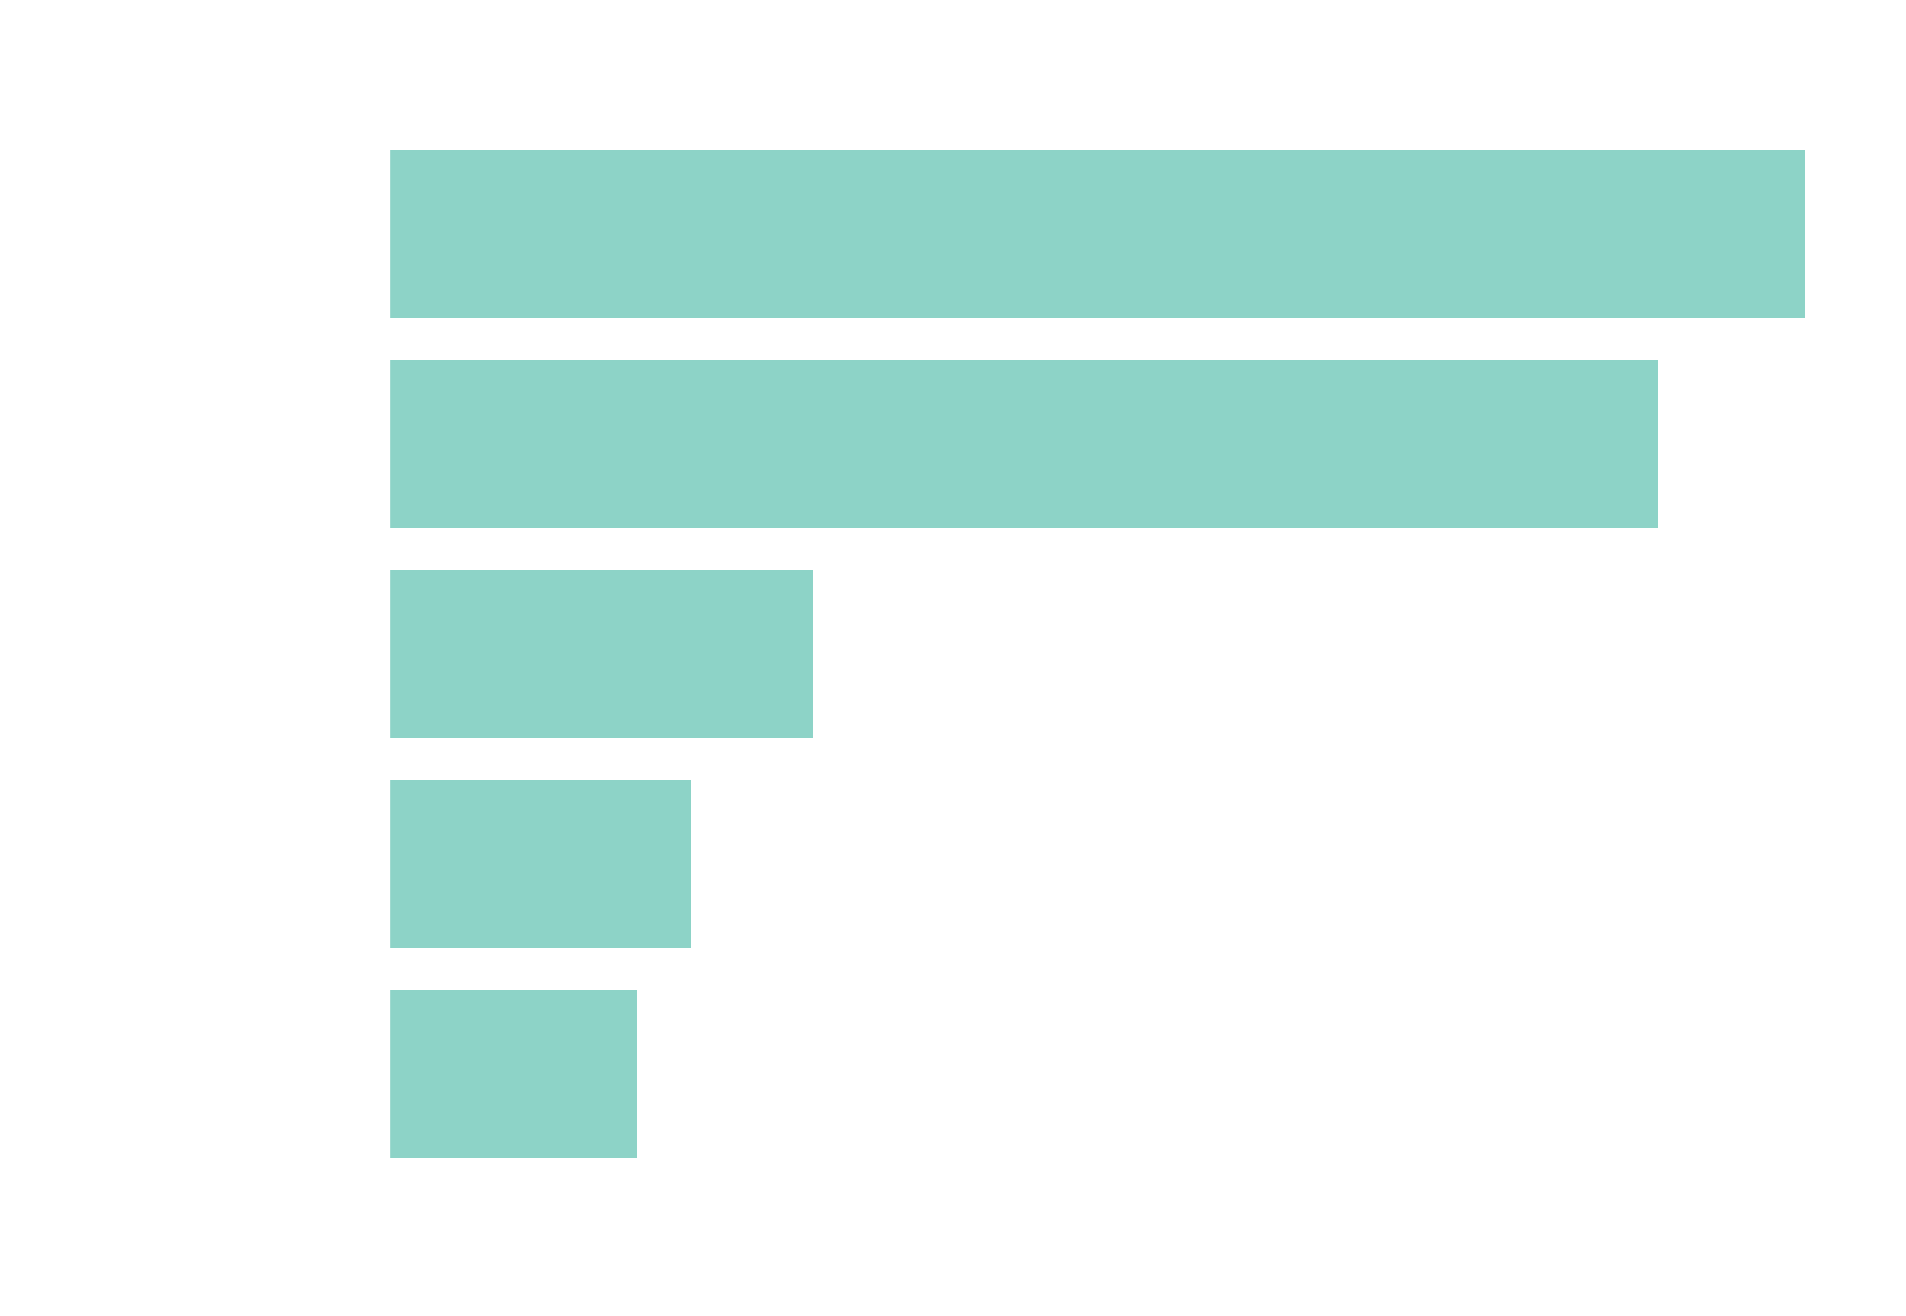
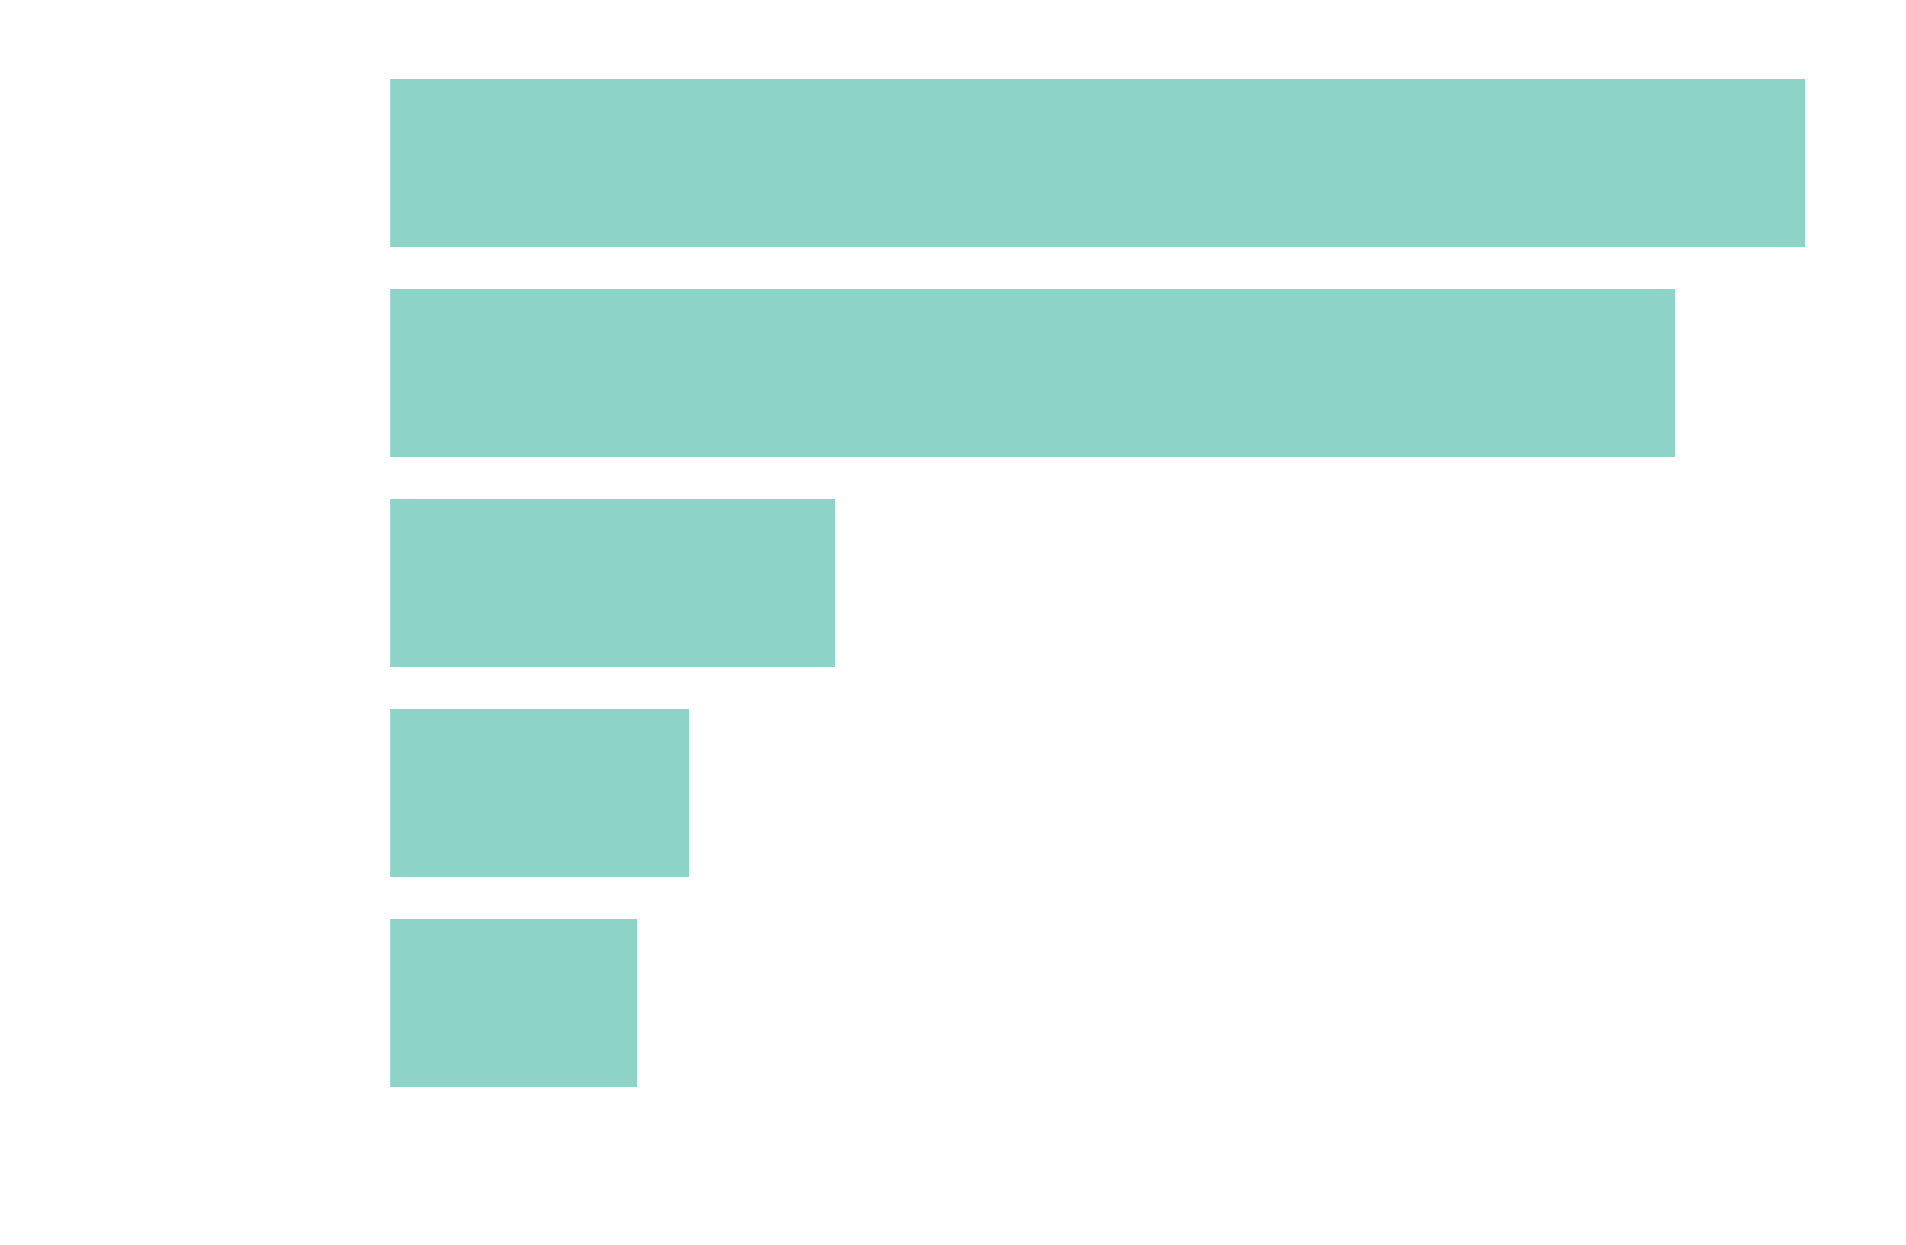
update charts, add map HTML

diff --git a/layouts/_default/stats.html b/layouts/_default/stats.html
@@ -11,7 +11,19 @@
     {{- if not (.Param "disableAnchoredHeadings") }} {{- partial
     "anchored_headings.html" .Content -}} {{- else }}{{ .Content }}{{ end }}
     <section class="stats">
+      <h2>Visitors by Country</h2>
       <p>
+        It's always amazing to see people from around the world reading my blog. Most visitors come from
+        {{ range first 3 .Site.Data.stats.stats.top_countries }} {{ . }}, {{ end }} and {{ range last 1 .Site.Data.stats.stats.top_countries }} {{ . }}. {{ end }}
+      </p>
+      <figure class="align-center"><a href="/images/stats/visitors-by-country.png" target="_blank">
+        <img loading="lazy" src="/images/stats/visitors-by-country.png#center" alt="Chart showing the source of visitors over last one month."> </a><figcaption>
+        Stats from the last 30 days<p>Last updated at {{.Site.Data.stats.stats.runtime}}</p>
+        </figcaption>
+        </figure>
+        <p>Shoutout to <a href="https://www.linkedin.com/in/christy-m-thomas/">Christy</a>, an actual GIS Engineer, who helped me create the chart above.</p>
+        <h2>Visitors per Day</h2>
+        <p>
         {{.Site.Data.stats.stats.most_visitors_visitors}} people visited the
         blog on {{.Site.Data.stats.stats.most_visitors_date}}. This is the
         highest number of daily visitors in the past month.
@@ -27,6 +39,7 @@
         Stats from the last 30 days<p>Last updated at {{.Site.Data.stats.stats.runtime}}</p>
         </figcaption>
         </figure>
+    <h2>Visitors by Source</h2>
     <p>
         Most people visited the site from the source: {{ index (.Site.Data.stats.stats.top_sources) 0 }}.
     </p>

diff --git a/.github/main.py b/.github/main.py
@@ -12,6 +12,8 @@ import pytz
 from datetime import datetime
 from dotenv import load_dotenv
 
+from PIL import Image
+
 load_dotenv()
 
 site = os.getenv('SITE')
@@ -19,11 +21,18 @@ period = os.getenv('PERIOD')
 token = os.getenv('TOKEN')
 runtime = os.getenv('RUN')
 
+def get_suffix(date):
+    day = date.day
+    if 11 <= day <= 13:
+        suffix = 'th'
+    else:
+        suffix = {1: 'st', 2: 'nd', 3: 'rd'}.get(day % 10, 'th')
+    return suffix
+
 input_tz = pytz.timezone('UTC')
 output_tz = pytz.timezone('Asia/Kolkata')
 
 input_tz_format = '%Y-%m-%dT%H:%M:%S'
-output_tz_format = '%-I:%M %p, %-d %B %Y (%z)'
 
 if runtime == "":
     runtime = datetime.now().strftime(input_tz_format)
@@ -33,16 +42,10 @@ input_time = datetime.strptime(runtime, input_tz_format)
 input_time = input_tz.localize(input_time)
 
 output_time = input_time.astimezone(output_tz)
-output_time_str = output_time.strftime(output_tz_format)
 
-def format_date(date_str):
-    date = datetime.strptime(date_str, '%Y-%m-%d')
-    day = date.day
-    if 11 <= day <= 13:
-        suffix = 'th'
-    else:
-        suffix = {1: 'st', 2: 'nd', 3: 'rd'}.get(day % 10, 'th')
-    return date.strftime(f'%d{suffix} %B %Y')
+output_tz_format = f'%-I:%M %p, %-d{get_suffix(output_time)} %B %Y (%z)'
+
+output_time_str = output_time.strftime(output_tz_format)
 
 url = 'https://plausible.io/api/v1/stats/timeseries'
 
@@ -101,7 +104,7 @@ ax.tick_params(axis='x', labelrotation=45)
 ax.set_xlim(dates[0], dates[-1])
 ax.xaxis.set_major_locator(plt.MaxNLocator(5))
 
-ax.set_title('Vistors over the Last Month')
+# ax.set_title('Vistors over the Last Month')
 
 fig.savefig('./static/images/stats/monthly-visitors.png',
             dpi=300, bbox_inches='tight', transparent=True)
@@ -133,7 +136,7 @@ if 'Direct / None' in top_sources:
 fig, ax = plt.subplots()
 ax.barh(sources, visitors)
 
-ax.set_title('Top Sources')
+# ax.set_title('Top Sources')
 
 fig.savefig('./static/images/stats/monthly-sources.png',
             dpi=300, bbox_inches='tight', transparent=True)
@@ -159,22 +162,28 @@ merged_data = world.merge(df, left_on='ISO_A2', right_on='country')
 top_countries = list(merged_data.sort_values(by='visitors', ascending=False).iloc[:4].ADMIN.values)
 
 colors_list = ['#c6e9e3', '#8dd3c7', '#45b29f', '#317f72']
-positions = [0.0, 0.6, 0.8, 1.0]
+positions = [0.0, 0.05, 0.4, 1.0]
 cmap = colors.LinearSegmentedColormap.from_list(
     'custom_cmap', list(zip(positions, colors_list)))
 
-fig, ax = plt.subplots(1, 1, figsize=(18, 18))
+fig, ax = plt.subplots()
 
 world.plot(ax=ax, facecolor="none", edgecolor='#ffffff', lw=.5)
 merged_data.plot(ax=ax, column='visitors', cmap=cmap)
 
-ax.set_title('Visitors by Country')
+# ax.set_title('Visitors by Country')
 ax.set_axis_off()
 
-plt.savefig('./static/images/stats/visitors-by-country.png', bbox_inches='tight',dpi=300)
+plt.savefig('./static/images/stats/visitors-by-country.png', dpi=300, bbox_inches='tight', transparent=True)
+
+im = Image.open('./static/images/stats/visitors-by-country.png')
+im = im.crop((82, 41, 1467, 624))
+im.save('./static/images/stats/visitors-by-country.png')
+
+most_visitors_date = datetime.strptime(most_visitors_date, '%Y-%m-%d')
 
 data_yaml = {
-    'most_visitors_date': format_date(most_visitors_date),
+    'most_visitors_date': most_visitors_date.strftime(f'%-d{get_suffix(most_visitors_date)} %B %Y'),
     'most_visitors_visitors': most_visitors_visitors,
     'top_page_link': top_page_link,
     'top_page_visitors': top_page_visitors,

diff --git a/content/stats.md b/content/stats.md
@@ -14,5 +14,3 @@ This page contains data and charts/insights from the data that I think you, as r
 As mentioned in my [ethics statement](/about/#ethics-statement), this blog [does not collect](https://plausible.io/privacy-focused-web-analytics) personal data or personally identifiable information.
 
 All data is from the past month (30 days) and will be updated daily.
-
----
